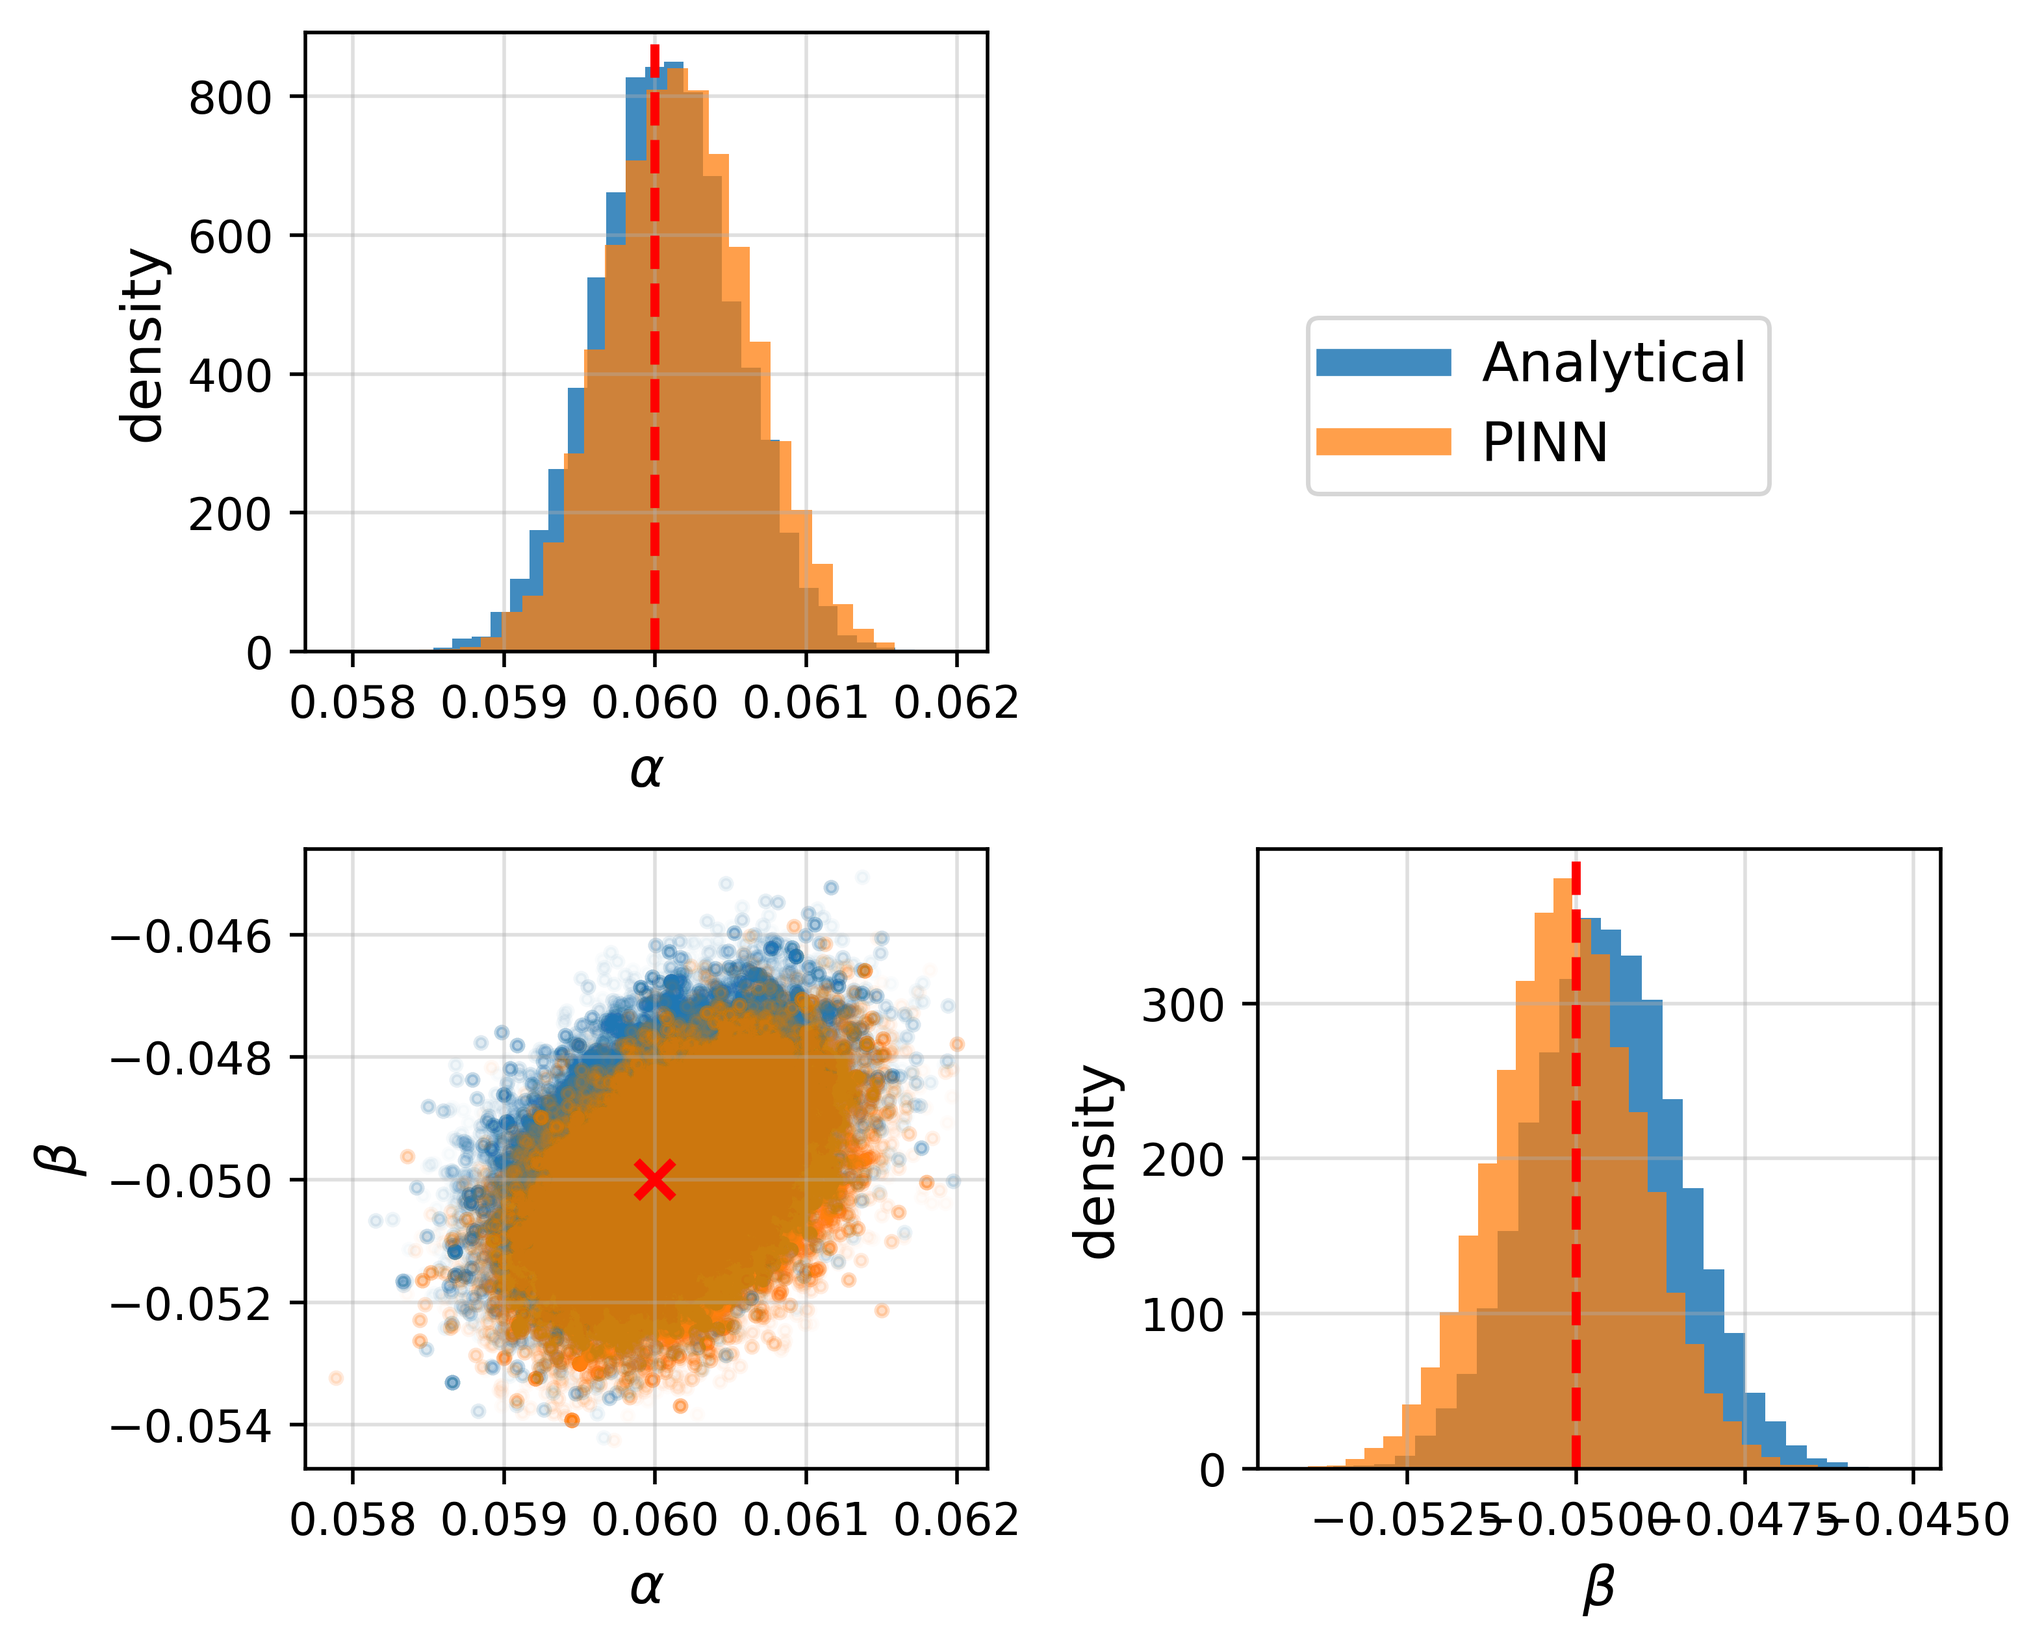
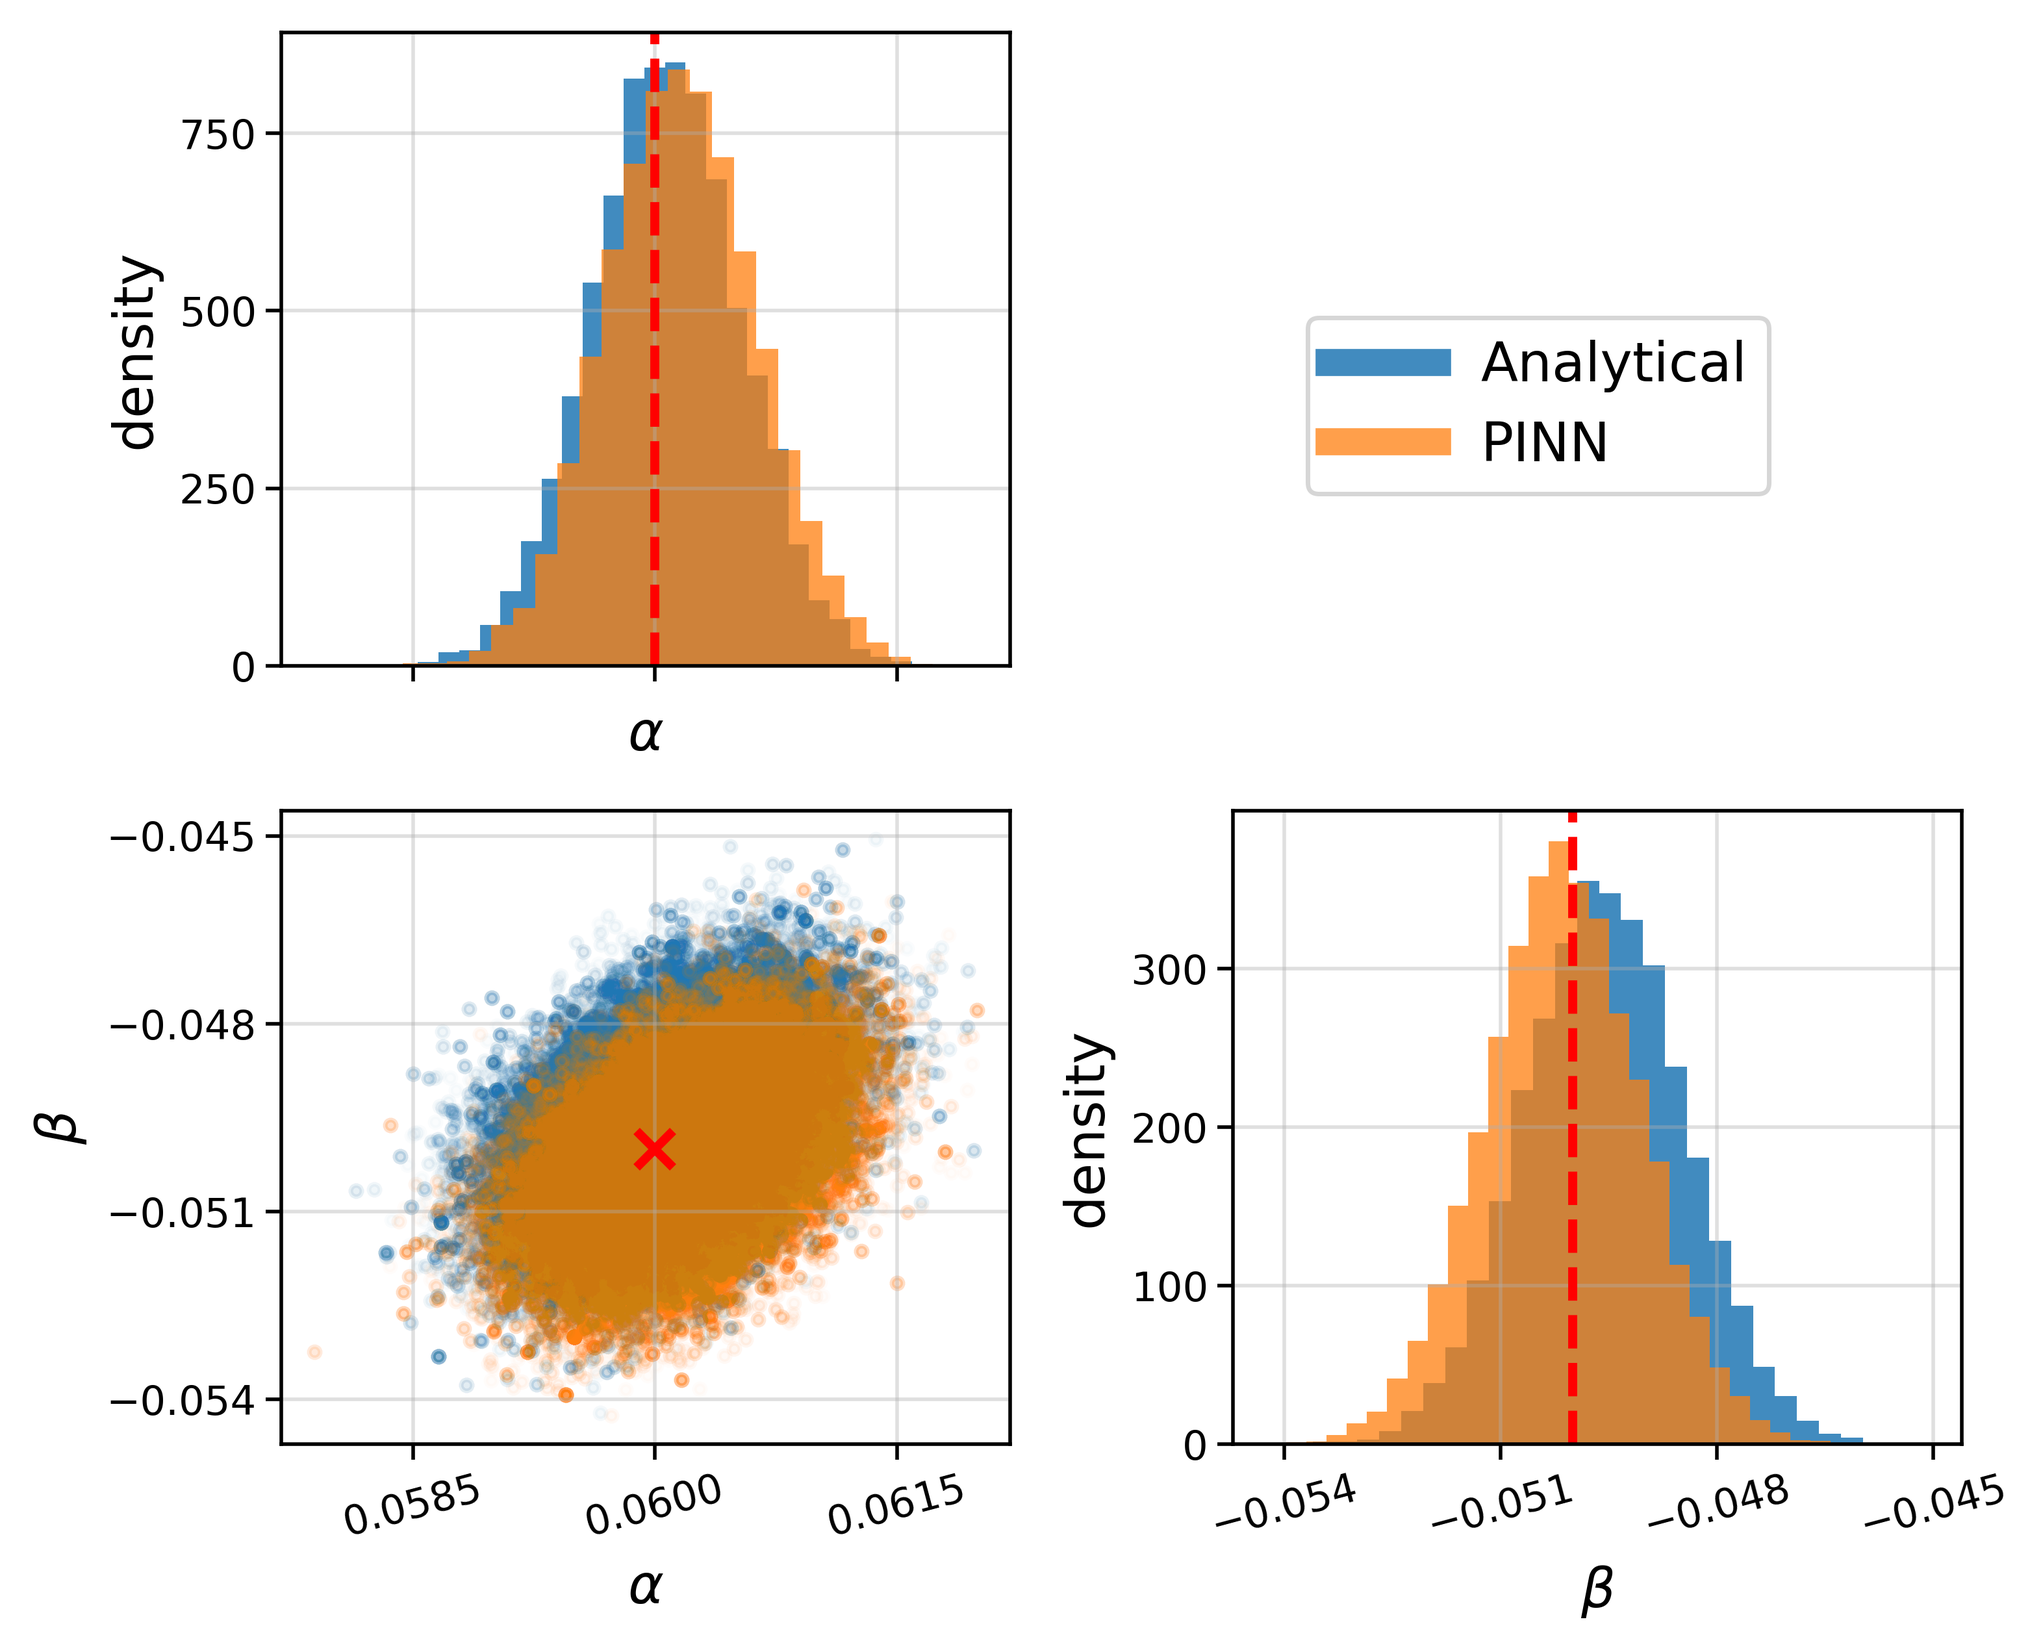
Thesis examples finished

diff --git a/inverse_problems/heat_equation_parametric_MLP/heat_equation_parametric_MLP.py b/inverse_problems/heat_equation_parametric_MLP/heat_equation_parametric_MLP.py
@@ -124,10 +124,10 @@ from plotting import (               # Plotting functions.
     plot_comparison_contour_square
 )
 from utils import get_model_info     # Model info utility.
-class HeatEquationPinn(PinnCore):
+class HeatParametricPinn(PinnCore):
     def __init__(self, **params):
         """
-        Initializes the HeatEquationPinn instance using the configuration
+        Initializes the HeatParametricPinn instance using the configuration
         dictionary passed to the base class.
 
         Parameters
@@ -138,7 +138,7 @@ class HeatEquationPinn(PinnCore):
             specifications.
         """
         # Initialize the PINN with parameters from the base class.
-        super(HeatEquationPinn, self).__init__(**params)
+        super(HeatParametricPinn, self).__init__(**params)
         self.L = self.domain_kwargs["dim1_max"]  # Length of the domain in x.
 
     def analytical_solution(self, X: torch.Tensor) -> torch.Tensor:
@@ -326,7 +326,7 @@ if __name__ == "__main__":
     }
 
     checkpoint_filename = "heat_parametric_MLP.pth"
-    heat_pinn = HeatEquationPinn(
+    heat_pinn = HeatParametricPinn(
         model_class=MLP,  # Model class.
         model_kwargs=model_kwargs,
         domain_kwargs=domain_kwargs,  # Domain parameters.

diff --git a/plotting.py b/plotting.py
@@ -999,7 +999,7 @@ def plot_corner_comparison(
                 ax.set_ylabel("density", fontsize=12)
                 ax.set_xlabel(par_names[j], fontsize=12)
 
-            # Off-diagonal: joint scatter
+            # Off-diagonal: joint scatter.
             else: 
 
                 ax.scatter(
@@ -1025,6 +1025,26 @@ def plot_corner_comparison(
                     ax.set_ylabel(par_names[i], fontsize=12)
             
             ax.grid(True, alpha=0.4)
+
+    # Deleting x-tick labels for all but the last row.
+    for i in range(n_params):
+        for j in range(n_params):
+            ax = axes[i, j]
+            if i < n_params - 1:   # all rows except the last.
+                ax.set_xticklabels([])
+
+    # Reduce number of ticks and adjust size.
+    for ax in axes.flat:
+        ax.xaxis.set_major_locator(plt.MaxNLocator(nbins=4))
+        ax.yaxis.set_major_locator(plt.MaxNLocator(nbins=4))
+        ax.tick_params(labelsize=9, pad=2)
+
+    # Rotate only the x-ticks of the last row.
+    for j in range(n_params):
+        axes[-1, j].tick_params(axis='x', labelrotation=15)
+
+    # Adjust space between subplots.
+    fig.subplots_adjust(wspace=0.08, hspace=0.08)
 
     # Labels and styling.
     handles = [

diff --git a/inverse_problems/heat_equation_parametric_MLP/heat_mcmc.py b/inverse_problems/heat_equation_parametric_MLP/heat_mcmc.py
@@ -96,7 +96,7 @@ from utils import load_full_model, get_model_info
 from sampling import generate_synthetic_data_on_square
 from inference.mcmc import MCMCInference, define_forward_map
 from plotting import plot_joint_posteriors
-from inverse_problems.heat_equation_parametric_MLP.heat_equation_parametric_MLP import HeatEquationPinn
+from inverse_problems.heat_equation_parametric_MLP.heat_equation_parametric_MLP import HeatParametricPinn
 
 # ----------------------------------------------------------------------------------
 # Load the trained PINN model for parameter inference.
@@ -104,7 +104,7 @@ from inverse_problems.heat_equation_parametric_MLP.heat_equation_parametric_MLP 
 checkpoint_filename = "heat_parametric_MLP.pth"
 heat_pinn = load_full_model(
     checkpoint_path=os.path.join("trained_models", checkpoint_filename),
-    model_class=HeatEquationPinn
+    model_class=HeatParametricPinn
 )
 get_model_info(checkpoint_filename) # Print model information.
 

diff --git a/inverse_problems/infer_conductivity_value_MLP/README.md b/inverse_problems/infer_conductivity_value_MLP/README.md
@@ -1,37 +1,37 @@
 # Conductivity Equation in the Unit Disk
 
-This experiment developes a Physics-Informed Neural Network (PINN) to approximate the solution of a conductivity problem in the unit disk $B$ where the conductivity depends on two parameters: fixed $R$ (**conductivity support**) and a variable $\rho$ (**conductivity value**). The problem is subject to a Neumann boundary condition and an additional condition given by a Fourier restriction. The study illustrates how a PINN can be extended to a parametric formulation, enabling the model to learn solutions across a range of admissible values of the conductivity value parameter $\rho$, which is then evaluated for selected test cases.
+This experiment developes a Physics-Informed Neural Network (PINN) to approximate the solution of a conductivity problem in the unit disk $\Omega= \{ \mathbf{x}\in \mathbb{R}^2 : \|\mathbf{x}\| < 1\}$ where the conductivity depends on two parameters: fixed $R$ (**conductivity support**) and a variable $\rho$ (**conductivity value**). The problem is subject to a Neumann boundary condition and an additional condition given by a Fourier restriction. The study illustrates how a PINN can be extended to a parametric formulation, enabling the model to learn solutions across a range of admissible values of the conductivity value parameter $\rho$, which is then evaluated for selected test cases.
 
 ## Problem Description
 
 The following PDE is solved:
 
 $$
-  \nabla \cdot \left( \lambda(\mathbf{x}) \nabla \boldsymbol{u} (\mathbf{x}) \right) = 0, \qquad \mathbf{x}\in B,
+  \nabla \cdot \left( \lambda(\mathbf{x};\theta) \nabla \boldsymbol{u} (\mathbf{x};\theta) \right) = 0, \qquad \mathbf{x}=(x,y)\in \Omega,
 $$
 
 subject to the Neumann boundary condition:
 
 $$
-  \lambda \frac{\partial \boldsymbol{u}}{\partial n} (\mathbf{x}) = f(\mathbf{x}), \qquad \mathbf{x}\in \partial B.
+  \lambda(\mathbf{x};\theta) \frac{\partial \boldsymbol{u}}{\partial \mathbf{n}} (\mathbf{x};\theta) = g(\mathbf{x}), \qquad \mathbf{x}\in \partial \Omega.
 $$
 
-where $n$ denotes the outward unit normal vector to $\partial B$. The conductivity is piecewise defined as:
+where $\mathbf{n}$ denotes the outward unit normal vector to $\partial \Omega$. The conductivity is piecewise defined as:
 
 $$
-\lambda(\mathbf{x}) =
+\lambda(\mathbf{x};\theta) =
 \begin{cases}
-    1 + \rho, & |\mathbf{x}| < R, \\\\
-    1, & R < |\mathbf{x}| < 1.
+    1 + \rho, & \|\mathbf{x}\| < R, \\\\
+    1, & R < \|\mathbf{x}\| < 1.
 \end{cases}
 $$
 
-The analytical solution in for $f = \cos(\theta)$ in polar coodinates is:
+The analytical solution in for $g = \cos(\varphi)$ in polar coodinates is:
 
 $$
-\boldsymbol{u}(r,\theta) = \begin{cases}
-		2 (b + c) \left( \dfrac{r}{R} \right)^4 \cos(4\theta), & r < R, \\
-		2 \left[ b \left( \dfrac{r}{R} \right)^4 + c \left( \dfrac{r}{R} \right)^{-4} \right] \cos(4\theta), & r > R,
+\boldsymbol{u}(r,\varphi) = \begin{cases}
+		2 (b + c) \left( \dfrac{r}{R} \right)^4 \cos(4\varphi), & r < R, \\
+		2 \left[ b \left( \dfrac{r}{R} \right)^4 + c \left( \dfrac{r}{R} \right)^{-4} \right] \cos(4\varphi), & r > R,
 	\end{cases}
 $$
 
@@ -41,10 +41,10 @@ $$
 b = \frac{(\rho+2)R^4}{8(\rho R^8 + \rho + 2)}, \quad c = \frac{\rho R^4}{8(\rho R^8 + \rho + 2)}.
 $$
 
-The additional condition is $\int_{\partial B} \boldsymbol{u} ds = 0$ that means:
+The additional condition is $\int_{\partial \Omega} \boldsymbol{u} ds = 0$ that means:
 
 $$
-  \left( \frac{1}{N_{b}} \sum_{i=1}^{N_{b}} \boldsymbol{u}(\mathbf{x}_i) \right)^{2}.
+  \left( \frac{1}{N_{b}} \sum_{i=1}^{N_{b}} \boldsymbol{u}(\mathbf{x}_i;\theta) \right)^{2}.
 $$
 
 ## Model Summary for $\rho\in[0,10],\ R=0.85$

diff --git a/inverse_problems/infer_conductivity_support_MLP/README.md b/inverse_problems/infer_conductivity_support_MLP/README.md
@@ -1,37 +1,37 @@
 # Conductivity Equation in the Unit Disk
 
-This experiment developes a Physics-Informed Neural Network (PINN) to approximate the solution of a conductivity problem in the unit disk $B$ where the conductivity depends on two parameters: fixed $\rho$ (**conductivity value**) and a variable $R$ (**conductivity support**). The problem is subject to a Neumann boundary condition and an additional condition given by a Fourier restriction. The study illustrates how a PINN can be extended to a parametric formulation, enabling the model to learn solutions across a range of admissible values of the conductivity support parameter $R$, which is then evaluated for selected test cases.
+This experiment developes a Physics-Informed Neural Network (PINN) to approximate the solution of a conductivity problem in the unit disk $\Omega= \{ \mathbf{x}\in \mathbb{R}^2 : \|\mathbf{x}\| < 1\}$ where the conductivity depends on two parameters: fixed $\rho$ (**conductivity value**) and a variable $R$ (**conductivity support**). The problem is subject to a Neumann boundary condition and an additional condition given by a Fourier restriction. The study illustrates how a PINN can be extended to a parametric formulation, enabling the model to learn solutions across a range of admissible values of the conductivity support parameter $R$, which is then evaluated for selected test cases.
 
 ## Problem Description
 
 The following PDE is solved:
 
 $$
-  \nabla \cdot \left( \lambda(\mathbf{x}) \nabla \boldsymbol{u} (\mathbf{x}) \right) = 0, \qquad \mathbf{x}\in B,
+  \nabla \cdot \left( \lambda(\mathbf{x};\theta) \nabla \boldsymbol{u} (\mathbf{x};\theta) \right) = 0, \qquad \mathbf{x}=(x,y)\in \Omega,
 $$
 
 subject to the Neumann boundary condition:
 
 $$
-  \lambda \frac{\partial \boldsymbol{u}}{\partial n} (\mathbf{x}) = f(\mathbf{x}), \qquad \mathbf{x}\in \partial B.
+  \lambda(\mathbf{x};\theta) \frac{\partial \boldsymbol{u}}{\partial \mathbf{n}} (\mathbf{x};\theta) = g(\mathbf{x}), \qquad \mathbf{x}\in \partial \Omega.
 $$
 
-where $n$ denotes the outward unit normal vector to $\partial B$. The conductivity is piecewise defined as:
+where $\mathbf{n}$ denotes the outward unit normal vector to $\partial \Omega$. The conductivity is piecewise defined as:
 
 $$
-\lambda(\mathbf{x}) =
+\lambda(\mathbf{x};\theta) =
 \begin{cases}
-    1 + \rho, & |\mathbf{x}| < R, \\\\
-    1, & R < |\mathbf{x}| < 1.
+    1 + \rho, & \|\mathbf{x}\| < R, \\\\
+    1, & R < \|\mathbf{x}\| < 1.
 \end{cases}
 $$
 
-The analytical solution in for $f = \cos(\theta)$ in polar coodinates is:
+The analytical solution in for $g = \cos(\varphi)$ in polar coodinates is:
 
 $$
-\boldsymbol{u}(r,\theta) = \begin{cases}
-		2 (b + c) \left( \dfrac{r}{R} \right)^4 \cos(4\theta), & r < R, \\
-		2 \left[ b \left( \dfrac{r}{R} \right)^4 + c \left( \dfrac{r}{R} \right)^{-4} \right] \cos(4\theta), & r > R,
+\boldsymbol{u}(r,\varphi) = \begin{cases}
+		2 (b + c) \left( \dfrac{r}{R} \right)^4 \cos(4\varphi), & r < R, \\
+		2 \left[ b \left( \dfrac{r}{R} \right)^4 + c \left( \dfrac{r}{R} \right)^{-4} \right] \cos(4\varphi), & r > R,
 	\end{cases}
 $$
 
@@ -41,10 +41,10 @@ $$
 b = \frac{(\rho+2)R^4}{8(\rho R^8 + \rho + 2)}, \quad c = \frac{\rho R^4}{8(\rho R^8 + \rho + 2)}.
 $$
 
-The additional condition is $\int_{\partial B} \boldsymbol{u} ds = 0$ that means:
+The additional condition is $\int_{\partial \Omega} \boldsymbol{u} ds = 0$ that means:
 
 $$
-  \left( \frac{1}{N_{b}} \sum_{i=1}^{N_{b}} \boldsymbol{u}(\mathbf{x}_i) \right)^{2}.
+  \left( \frac{1}{N_{b}} \sum_{i=1}^{N_{b}} \boldsymbol{u}(\mathbf{x}_i;\theta) \right)^{2}.
 $$
 
 ## Model Summary for $R\in[0,1.0],\ \rho=6$

diff --git a/forward_problems/klein_gordon_MLP/README.md b/forward_problems/klein_gordon_MLP/README.md
@@ -8,13 +8,13 @@ $\Omega\times[0,3]$ with $\Omega:=[-1,1]$ using a Physics-Informed Neural Networ
 The following PDE is solved:
 
 $$
-\frac{\partial \boldsymbol{u}^2}{\partial t^2} + \alpha \frac{\partial \boldsymbol{u}^2}{\partial x^2} + \beta \boldsymbol{u} + \gamma \boldsymbol{u}^{k} = -x\cdot\cos{t} + x^{2}\cdot\cos^{2}{t}, \qquad x\in\Omega, \quad t\in(0,3],
+\frac{\partial \boldsymbol{u}^2}{\partial t^2} + \alpha \frac{\partial \boldsymbol{u}^2}{\partial x^2} + \beta \boldsymbol{u} + \gamma \boldsymbol{u}^{k} = -x\cos{t} + x^{2}\cos^{2}{t}, \qquad x\in\Omega, \quad t\in(0,3],
 $$
 
 with parameters $\alpha=-1$, $\beta=0$, $\gamma=1$, $k=2$, and homogeneous Dirichlet boundary conditions:
 
 $$
-    \boldsymbol{u}(-1,t) = -\cos(t), \quad \boldsymbol{u}(1,t) = \cos(t), \qquad t\in[0,3].
+    \boldsymbol{u}(-1,t) = -\cos{t}, \quad \boldsymbol{u}(1,t) = \cos{t}, \qquad t\in[0,3].
 $$
 
 Initial condition:
@@ -26,7 +26,7 @@ $$
 The analytical solution is:
 
 $$
-\boldsymbol{u}(x,t) = x\cdot\cos(t).
+\boldsymbol{u}(x,t) = x\cos{t}.
 $$
         
 ## Model Summary

diff --git a/forward_problems/diffusion_nonhomogeneous_MLP/README.md b/forward_problems/diffusion_nonhomogeneous_MLP/README.md
@@ -7,7 +7,7 @@ This experiment solves the 1D time-dependent diffusion equation on the space–t
 The following PDE is solved:
 
 $$
-\frac{\partial \boldsymbol{u}}{\partial t} - \frac{\partial \boldsymbol{u}^2}{\partial x^2} = -e^{-t}\sin(\pi x) (1-\pi^{2}), \qquad x\in\Omega, \quad t\in(0,1],
+\frac{\partial \boldsymbol{u}}{\partial t} - \frac{\partial \boldsymbol{u}^2}{\partial x^2} = (\pi^{2}-1)e^{-t}\sin(\pi x), \qquad x\in\Omega, \quad t\in(0,1],
 $$
 
 with homogeneous Dirichlet boundary conditions:
@@ -25,7 +25,7 @@ $$
 The analytical solution is:
 
 $$
-\boldsymbol{u}(x,t) = e^{-t}\sin(\pi x).
+\boldsymbol{u}(x,t) = \sin(\pi x)e^{-t}.
 $$
         
 ## Model Summary

diff --git a/forward_problems/wave_highfreq_MLP/README.md b/forward_problems/wave_highfreq_MLP/README.md
@@ -26,7 +26,7 @@ $$
 The analytical solution is:
 
 $$
-\boldsymbol{u}(x,t) = \sin(\pi x)\cdot\cos(\pi c t) + \sin(2\pi x)\cdot\cos(2\pi c t).
+\boldsymbol{u}(x,t) = \sin(\pi x)\cos(\pi c t) + \sin(2\pi x)\cos(2\pi c t).
 $$
         
 ## Model Summary for $c=10$

diff --git a/forward_problems/helmholtz_MLP/README.md b/forward_problems/helmholtz_MLP/README.md
@@ -19,7 +19,7 @@ $$
 When $k=n\pi$ with $n\in\mathbb{Z}^{+}$, the analytical solution is:
 
 $$
-\boldsymbol{u}(x,y) = \sin(k x) \cdot \sin(k y).
+\boldsymbol{u}(x,y) = \sin(k x) \sin(k y).
 $$
         
 ## Model Summary for $k=3\pi$

diff --git a/forward_problems/poisson_MLP/README.md b/forward_problems/poisson_MLP/README.md
@@ -19,7 +19,7 @@ $$
 The analytical solution is:
 
 $$
-\boldsymbol{u}(x,y) = \sin(\pi x) \cdot \sin(\pi y).
+\boldsymbol{u}(x,y) = \sin(\pi x) \sin(\pi y).
 $$
         
 ## Model Summary
